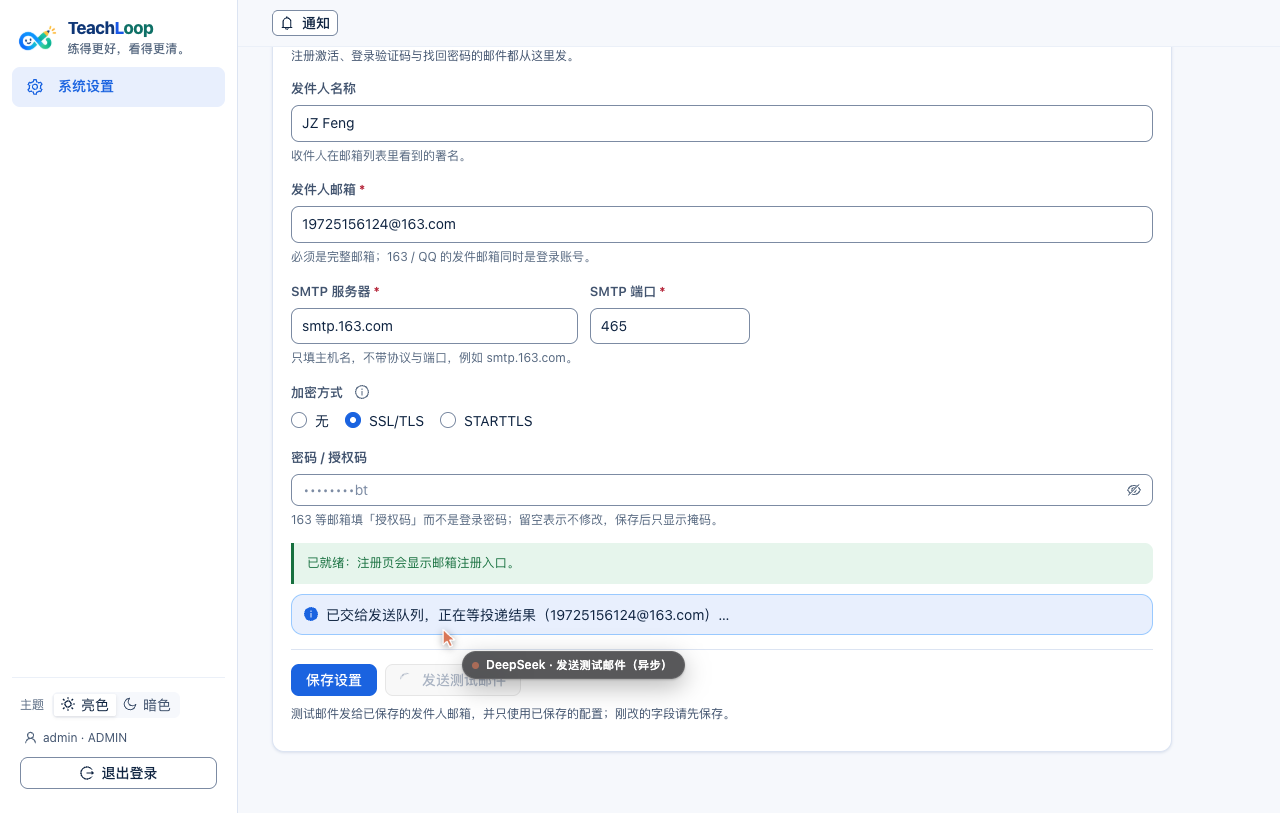
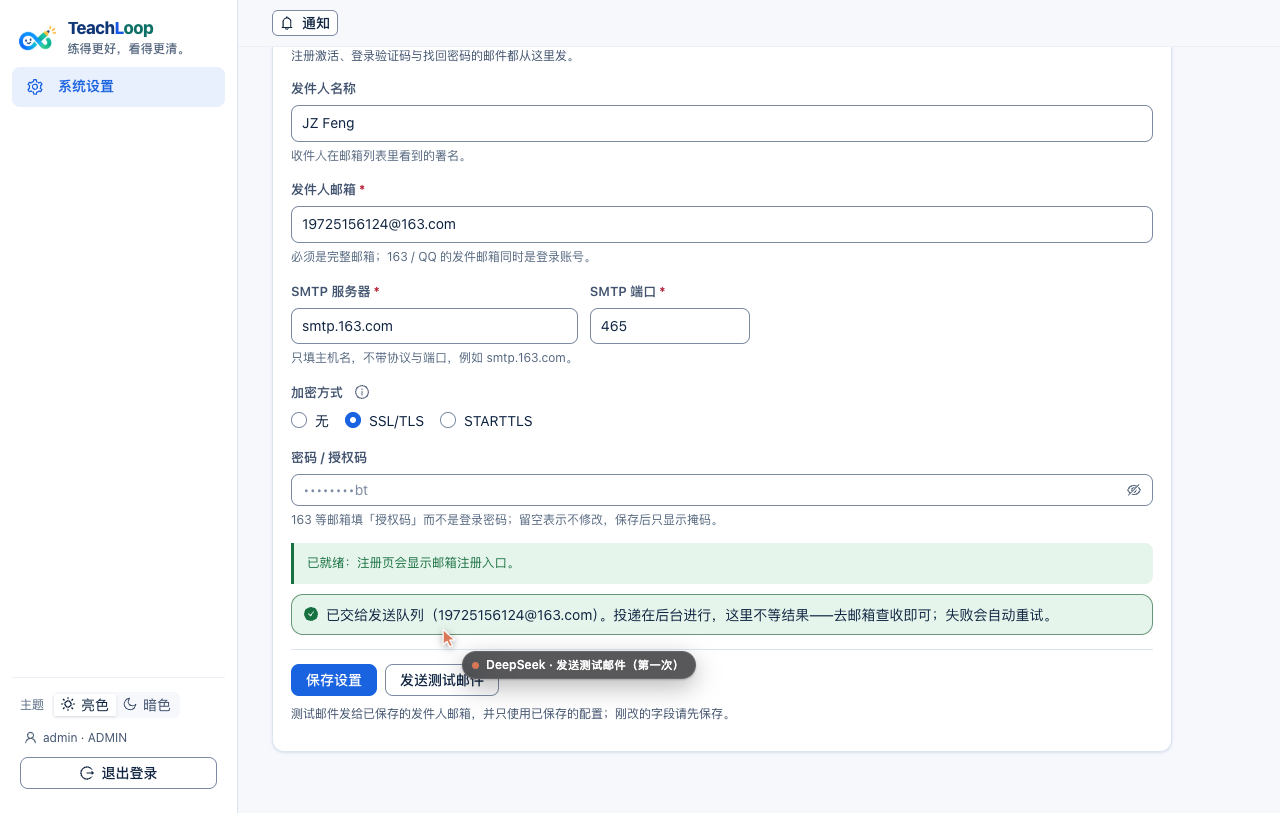
fix(admin): 测试邮件点完立即返回，页面不再等投递结果
用户 2026-10-28：「发完消息，发送测试邮件按钮就要变成 active，因为消息一下就进队列了嘛…
异步目的就是不要这里 block 用户，他要查邮件直接去他邮箱等就好。」

- 去掉前端轮询（30 秒等结果、PENDING/SENT/FAILED 三态全部删掉），后端 POST 返回即结束；
- 点完显示「已交给发送队列（收件人）…」绿色确认，按钮毫秒级恢复可点，再点就再入队一条；
- 投递失败不再上页面：原因留在 outbound_messages.last_error 与服务端日志，
  GET /{channel}/test/{id} 保留给后台排查（页面不调）；
- spec AC-78.5 与决策 028 按新口径改写，报告截图重拍。

实测（dev，真机）：连点两次 → 两条队列行（19:44:05 / 19:44:22），均 SENT、attempts=1；
tsc 0、node --test 152/152、check-ui/check-i18n 0。

diff --git a/web/src/app/IdentityChannelsPanel.tsx b/web/src/app/IdentityChannelsPanel.tsx
@@ -20,22 +20,8 @@ const READINESS_TONE: Record<ChannelReadiness, NoteTone> = {
   unreadable: 'error',
 }
 
-/** 测试邮件的投递阶段：入队 → 轮询 → 已发送 / 失败待重试 / 失败 / 超时。 */
-type TestPhase = 'sending' | 'sent' | 'retrying' | 'failed' | 'timeout'
-
-interface TestState {
-  phase: TestPhase
-  target: string
-  ms: number
-  /** 失败时后端给的错误原文（SMTP 返回码这类）。 */
-  message?: string | null
-}
-
-/** 入队回执与轮询结果（后端 /api/admin/identity-channels/{channel}/test）。 */
+/** 入队回执：后端只回「排上了」，不回投递结果（2026-10-28 用户口径）。 */
 interface TestQueued { id: string; target: string }
-interface TestDelivery { status: 'PENDING' | 'SENT' | 'FAILED'; target: string; message: string | null }
-
-const sleep = (ms: number) => new Promise<void>((resolve) => { setTimeout(resolve, ms) })
 
 /**
  * 009 T535：全域通讯通道配置面板（嵌在管理端的系统设置页里）。
@@ -59,7 +45,7 @@ export default function IdentityChannelsPanel() {
   const [testing, setTesting] = useState(false)
   const [error, setError] = useState<string | null>(null)
   const [saved, setSaved] = useState(false)
-  const [test, setTest] = useState<TestState | null>(null)
+  const [testQueued, setTestQueued] = useState<TestQueued | null>(null)
 
   const load = () => {
     api.get<EmailChannelRow[]>('/api/admin/identity-channels')
@@ -82,7 +68,7 @@ export default function IdentityChannelsPanel() {
     setForm((prev) => (prev ? { ...prev, ...patch } : prev))
     setIssue(null)
     setSaved(false)
-    setTest(null)
+    setTestQueued(null)
   }
 
   const save = async () => {
@@ -93,7 +79,7 @@ export default function IdentityChannelsPanel() {
     setSaving(true)
     setError(null)
     setSaved(false)
-    setTest(null)
+    setTestQueued(null)
     try {
       const updated = await api.put<EmailChannelRow>('/api/admin/identity-channels/email',
         buildEmailUpdate(form, row.dailyQuota))
@@ -108,39 +94,18 @@ export default function IdentityChannelsPanel() {
   }
 
   /**
-   * 2026-10-28：发送改为异步（后端只入队），所以这里要轮询投递结果——
-   * 不轮询的话按钮只能显示「已提交」，管理员没法知道信到底出去没有。
+   * 2026-10-28（用户纠正）：这里**不等投递结果**。
+   *
+   * 异步的目的就是别把用户按在这一页——入队只要几毫秒，按钮立刻恢复可点；
+   * 想再发一封就再点一次（每次都是一条新队列行）。信有没有到，去邮箱看就好；
+   * 发送失败由队列按退避重试，页面不承担这个等待。
    */
   const sendTest = async () => {
     setTesting(true)
     setError(null)
-    setTest(null)
-    const started = Date.now()
+    setTestQueued(null)
     try {
-      const queued = await api.post<TestQueued>('/api/admin/identity-channels/email/test')
-      setTest({ phase: 'sending', target: queued.target, ms: 0 })
-      // 30 秒：派发器 2 秒一轮 + SMTP 握手，正常 4 秒内出结果。
-      for (let i = 0; i < 38; i += 1) {
-        await sleep(800)
-        const delivery = await api.get<TestDelivery>(
-          `/api/admin/identity-channels/email/test/${queued.id}`)
-        const ms = Date.now() - started
-        if (delivery.status === 'SENT') {
-          setTest({ phase: 'sent', target: delivery.target, ms })
-          return
-        }
-        if (delivery.status === 'FAILED') {
-          setTest({ phase: 'failed', target: delivery.target, ms, message: delivery.message })
-          return
-        }
-        // 第一次投递就失败（例如授权码过期、端口被墙）：别让管理员干等 30 秒的退避，
-        // 直接把服务端原因摆出来；队列会在后台自己重试。
-        if (delivery.status === 'PENDING' && delivery.message) {
-          setTest({ phase: 'retrying', target: delivery.target, ms, message: delivery.message })
-          return
-        }
-      }
-      setTest({ phase: 'timeout', target: queued.target, ms: Date.now() - started })
+      setTestQueued(await api.post<TestQueued>('/api/admin/identity-channels/email/test'))
     } catch (e) {
       setError(e instanceof ApiError ? e.message : String(e))
     } finally {
@@ -226,23 +191,12 @@ export default function IdentityChannelsPanel() {
             {t(`app.channels.state.${readiness}`)}
           </InlineNote>
 
-          {test && (
+          {testQueued && (
             <Alert
-              type={test.phase === 'sending' ? 'info'
-                : test.phase === 'sent' ? 'success'
-                  : test.phase === 'timeout' ? 'warning'
-                    : test.phase === 'retrying' ? 'warning' : 'error'}
+              type="success"
               showIcon
               style={{ marginBottom: 12 }}
-              message={test.phase === 'sending'
-                ? t('app.channels.testSending', { to: test.target })
-                : test.phase === 'sent'
-                  ? t('app.channels.testOk', { to: test.target, ms: test.ms })
-                  : test.phase === 'timeout'
-                    ? t('app.channels.testTimeout', { to: test.target })
-                    : test.phase === 'retrying'
-                      ? t('app.channels.testRetrying', { message: test.message ?? '' })
-                      : t('app.channels.testFail', { message: test.message ?? '' })}
+              message={t('app.channels.testQueued', { to: testQueued.target })}
             />
           )}
 

diff --git a/docs/reports/2026-10-28-admin-settings/README.md b/docs/reports/2026-10-28-admin-settings/README.md
@@ -29,9 +29,8 @@
 | :--- | :--- |
 | `01-settings-top.png` | 侧栏与页标题都是「系统设置」；AI 只剩一张卡 |
 | `02-smtp-form.png` / `02b-smtp-form-bottom.png` | 邮件六个字段（无认证账号）+ 加密方式单选 + 两个按钮；开关读作「启用邮件服务 ☑ 开启」；短信 / 微信不渲染 |
-| `03-test-email-queued.png` | 点「发送测试邮件」→ 立刻蓝色「已交给发送队列，正在等投递结果…」（按钮禁用，后台在发） |
-| `04-test-email-sent.png` | 轮询到 SENT → 绿色「测试邮件已发送到 19725156124@163.com · 4099ms」——**真发出去了**（SSL/TLS 465 + 真实授权码） |
-| `05-models-loaded-green.png` | 对接本地假 `/v1/models`（127.0.0.1:8099）→「已加载 2 个模型」是**绿色** |
+| `03-test-email-queued.png` | 点「发送测试邮件」→ **毫秒级**回「已交给发送队列（19725156124@163.com）…」；按钮**没有**变灰，可以立刻再点 |
+| `04-models-loaded-green.png` | 对接本地假 `/v1/models`（127.0.0.1:8099）→「已加载 2 个模型」是**绿色** |
 
 保存链路：把加密方式切到 STARTTLS → 保存 → `GET /api/admin/identity-channels` 的
 `extra.encryption == "starttls"`；再切回 SSL/TLS 保存 → 恢复 `"ssl"`（dev 库保持可用状态）。
@@ -41,10 +40,10 @@
 - `POST /api/auth/register`（真实队列 + 真实 SMTP 配置）返回 **200，用时 113ms**——改前同一路径要等
   整封 SMTP 会话（实测一封 3.8s 量级）；随后 `outbound_messages` 出现 1 行且状态 `SENT`、`body_cipher` 已清空；
 - 顺序：`PENDING → SENT`，`attempts=1`；
-- **故障路径也验过**：把 SMTP 主机临时指向 `127.0.0.1:2599`（拒绝连接）→ 测试邮件 2 秒内
-  变成 `PENDING` + `last_error="邮件发送失败：Connection refused"`，页面显示琥珀色
-  「投递失败，队列会在 30 秒后自动重试：…」，管理员不用等 30 秒退避就能看到原因；
-  验完把主机改回 `smtp.163.com:465`（当前库里就是这个值）；
+- **连点两次 = 两条队列行**：19:44:05 与 19:44:22 各一条，状态都是 `SENT`、`attempts=1`；
+- **故障路径只落库、不上页面**（按用户口径）：把 SMTP 主机临时指向 `127.0.0.1:2599`（拒绝连接）时
+  `last_error="邮件发送失败：Connection refused"`、状态 `PENDING` 等退避重试——这一行是接口层证据，
+  页面不再展示投递结果；验完把主机改回 `smtp.163.com:465`（当前库里就是这个值）；
 - 注册探针用的账号与消息已从 dev 库删除（`users` / `verification_codes` / `outbound_messages` 各 1 行）。
 
 自动化：

diff --git a/specs/009-registration/tasks.md b/specs/009-registration/tasks.md
@@ -49,7 +49,7 @@ T544 收尾验收
 | T523 | `SmtpEmailChannel`（`spring-boot-starter-mail`），发件人/主机/端口/授权码全部来自 `identity_channels` | T521 | 用本地 `HttpServer`/GreenMail 替身发送成功 1 封；`configured()` 在缺 from 或缺 secret 时为 false |
 | T524 | `HttpApiEmailChannel`：可配 endpoint + Bearer key，POST JSON；超时 5s | T521 | 替身返回 200 → 发送成功；返回 500 → 抛 `MAIL_SEND_FAILED` |
 | ~~T525~~ | ~~发送失败语义：502 + 该 challenge/令牌立即作废~~ **2026-10-28 作废**：改为异步投递后不再「发信失败就作废令牌」，失败由队列退避重试，见 T545 | ~~T523/T524~~ | — |
-| T545 | **出站消息异步投递（2026-10-28）**：`outbound_messages`（V074）+ `OutboundMessageQueue`（入队，正文 `SecretBox` 加密存）+ `OutboundMessageWorker`（`@Scheduled` 2s 一批，`for update skip locked` 抢件，30s/5min 退避，3 次失败置 FAILED）。注册激活、登录/重置验证码、管理端测试邮件三处改为入队；测试邮件改「入队 + 前端轮询状态」 | T521/T523 | `OutboundMessageWorkerTest` 4/4（成功清正文 / 退避 / 重试成功 / 三次失败终态）；`RegistrationFlowTest` 2/2 与 `LoginCodeFlowTest` 4/4 在异步下仍能拿到邮件内容；注册接口实测从 ~3.8s 降到毫秒级 |
+| T545 | **出站消息异步投递（2026-10-28）**：`outbound_messages`（V074）+ `OutboundMessageQueue`（入队，正文 `SecretBox` 加密存）+ `OutboundMessageWorker`（`@Scheduled` 2s 一批，`for update skip locked` 抢件，30s/5min 退避，3 次失败置 FAILED）。注册激活、登录/重置验证码、管理端测试邮件三处改为入队；测试邮件改「只入队，页面立即返回」 | T521/T523 | `OutboundMessageWorkerTest` 4/4（成功清正文 / 退避 / 重试成功 / 三次失败终态）；`RegistrationFlowTest` 2/2 与 `LoginCodeFlowTest` 4/4 在异步下仍能拿到邮件内容；注册接口实测从 ~3.8s 降到毫秒级 |
 
 ## 4. 批 C：注册与激活
 

diff --git a/specs/009-registration/spec.md b/specs/009-registration/spec.md
@@ -173,7 +173,7 @@
 - [ ] AC-78.2 派发器每 2 秒（`teachloop.outbound.poll-ms`）领一批到期消息并投递；成功后 `status=SENT`、`body_cipher` 清空、`sent_at` 写入
 - [ ] AC-78.3 投递失败按 30 秒 / 5 分钟退避重试，**3 次**仍失败置 `FAILED` 且 `last_error` 可查；进程重启不丢消息（PENDING 行留在库里，下一轮继续发）
 - [ ] AC-78.4 队列正文用 `SecretBox` 加密存 `body_cipher`，发出后立即清空——激活链接等于一次性凭据，队列不能成为第二份明文
-- [ ] AC-78.5 管理端「发送测试邮件」拿 `id` 轮询 `GET /api/admin/identity-channels/{channel}/test/{id}`，页面按 PENDING / SENT / FAILED 分别显示「等待投递 / 已发送 / 失败原因」，不是只显示「已提交」
+- [ ] AC-78.5 管理端「发送测试邮件」**只回入队回执**：接口毫秒级返回，按钮立即恢复可点（再点就再入队一条），页面显示「已交给发送队列（收件人）」后**不再等待**投递结果——异步的目的就是不要在这一页 block 用户，信到没到去邮箱看（2026-10-28 用户纠正；`GET /{channel}/test/{id}` 仅留给后台排查，页面不轮询）
 
 ---
 

diff --git a/docs/decisions/028-registration-channels.md b/docs/decisions/028-registration-channels.md
@@ -95,5 +95,6 @@
    `for update skip locked` 抢件，30s / 5min 退避，3 次失败置 `FAILED`。重启不丢消息。
 2. 正文用 `SecretBox` 加密存 `body_cipher`，发出后立刻清空——激活链接等于一次性凭据。
 3. 注册/验证码接口立刻返回「已发送」，不再「失败就作废令牌」（T525 作废）；用户收不到就点重发。
-4. 管理端测试邮件返回消息 id，前端轮询 `GET /{channel}/test/{id}`，按 PENDING / SENT / FAILED 显示。
+4. 管理端测试邮件只回入队回执，页面**不等**投递结果（用户当天纠正：异步的目的就是不要在这一页 block，
+   按钮点完立刻可再点；`GET /{channel}/test/{id}` 保留给后台排查，不接进页面）。
 5. 未来的短信沿用同一条队列与同一个接口，不改调用方。
